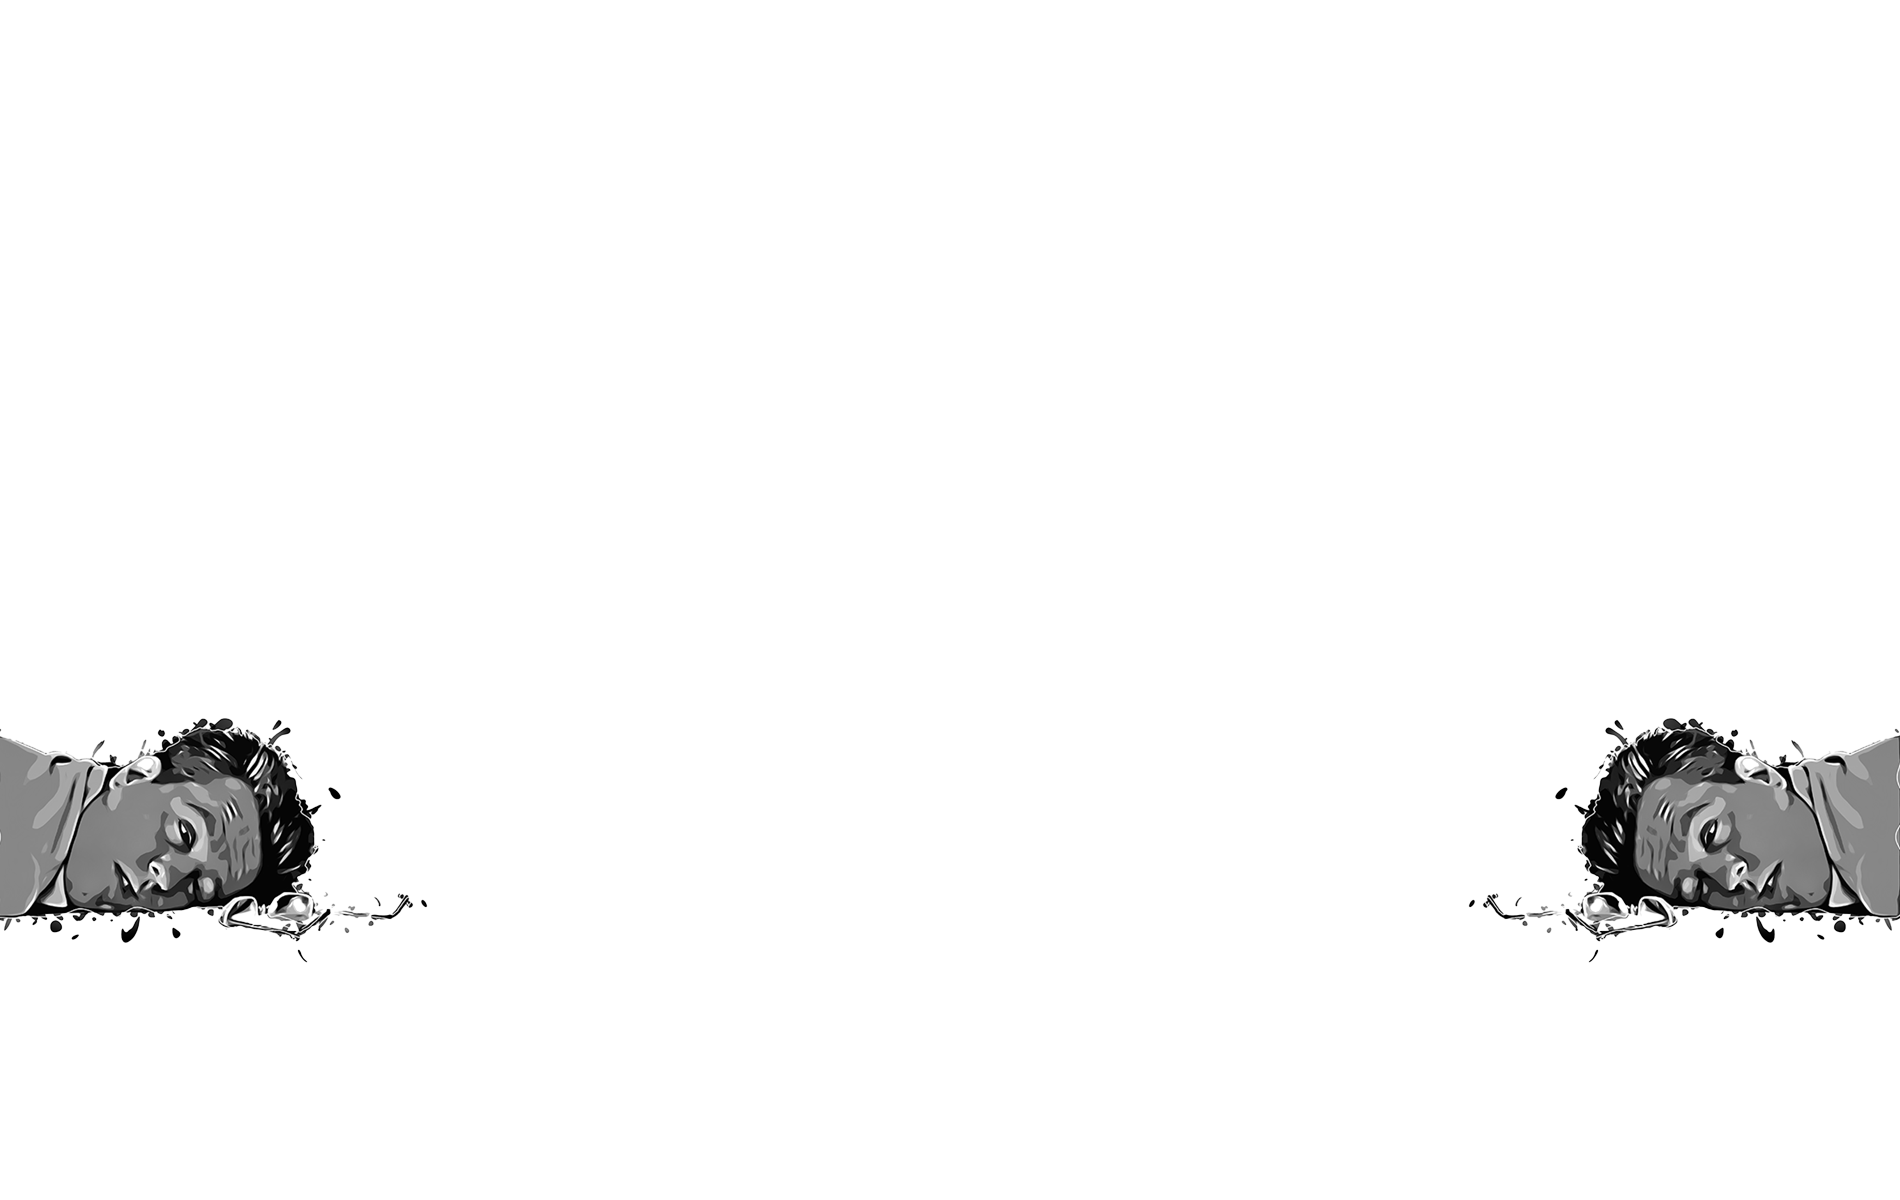
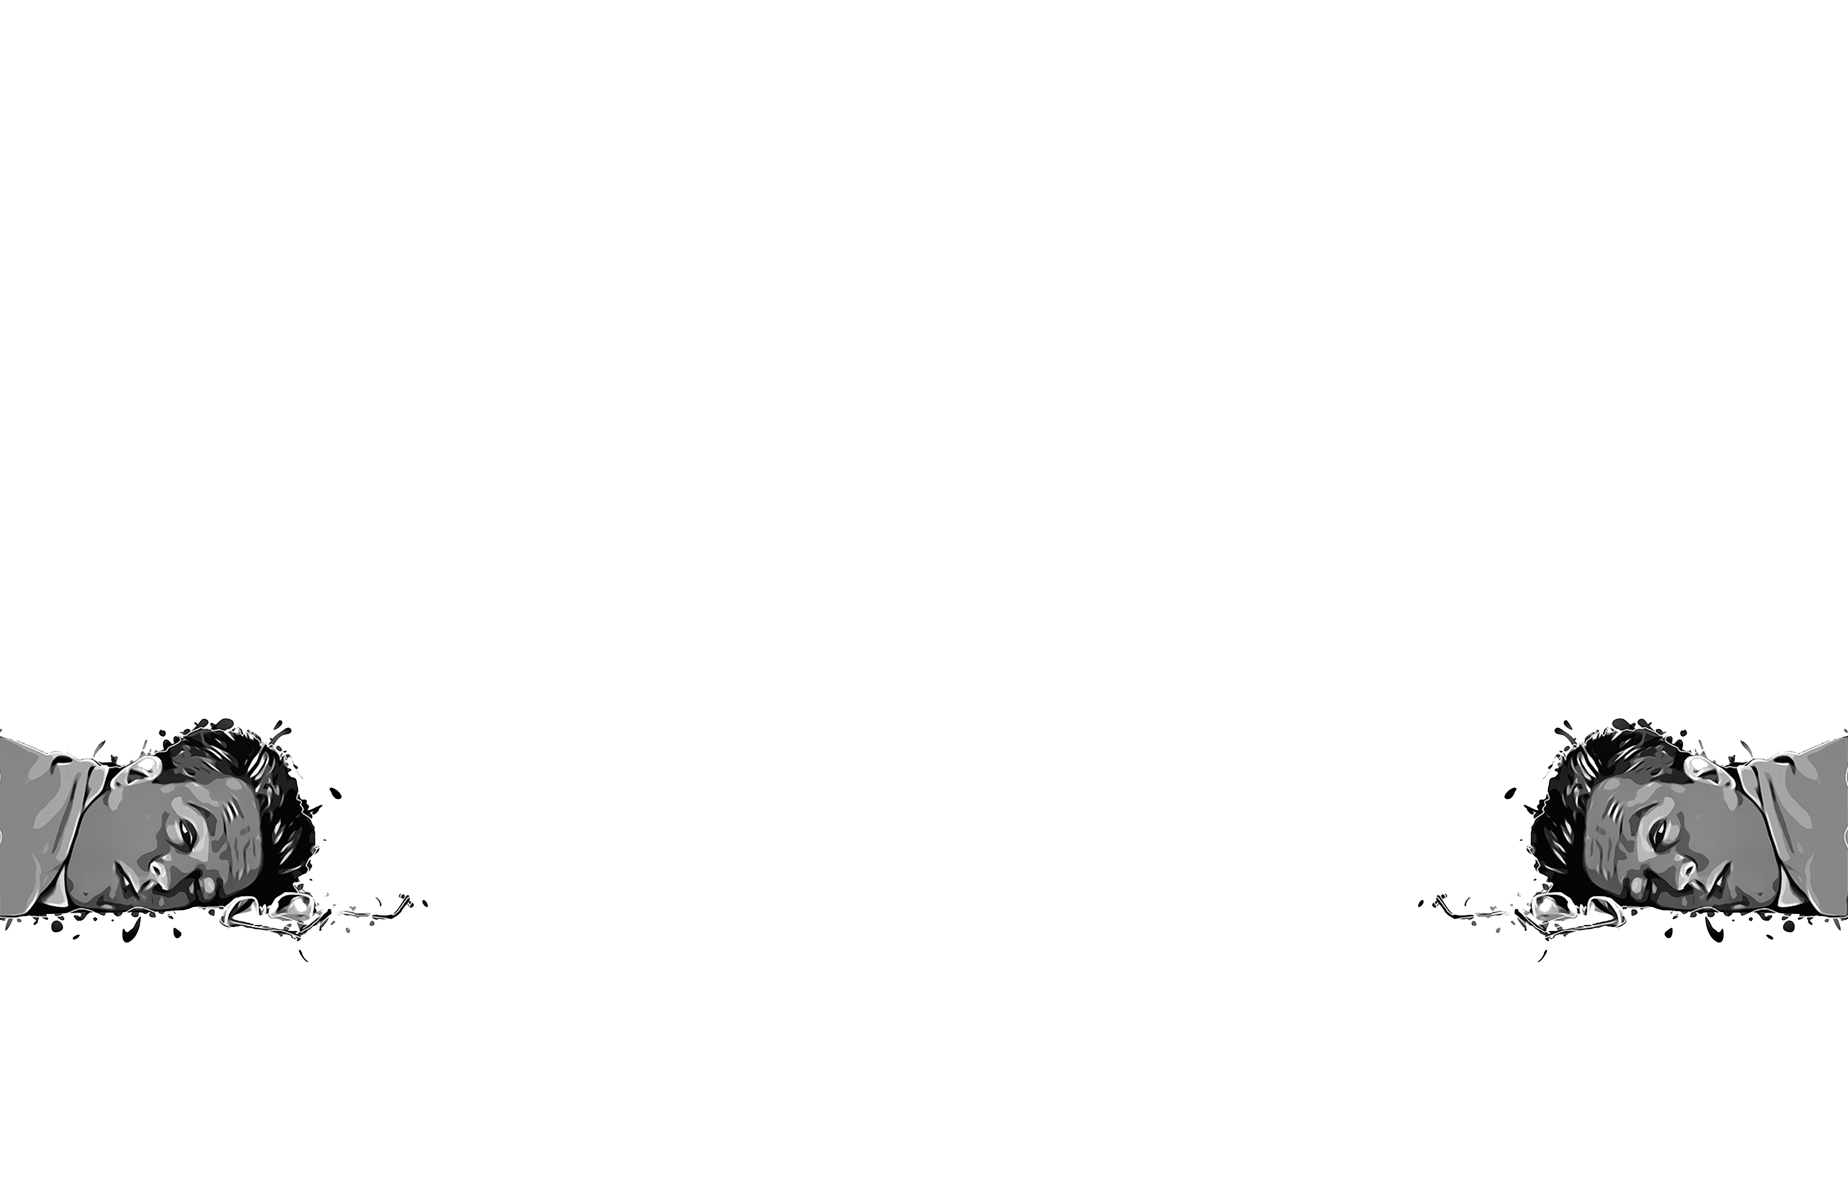
Update Hangover

Changed region(s): [[0.0, 0.5858, 0.2159, 0.8017], [0.7711, 0.5858, 0.987, 0.8017], [0.987, 0.74, 1.0, 0.7708]]

diff --git a/public/styles/light-new.css b/public/styles/light-new.css
@@ -931,7 +931,7 @@ body {
   color: var(--main, #080e25);
   text-rendering: optimizeLegibility;
   /*--body-bg: #f8f8f8 url("https://knuckleheads.netlify.app/images/backgrounds/Hangover.png"), url("https://knuckleheads.netlify.app/images/backgrounds/BG-FB-Field-Light.jpg");*/
-  background-image: url("https://knuckleheads.netlify.app/images/backgrounds/Side-Players-QB.png"), url("https://knuckleheads.netlify.app/images/backgrounds/BG-FB-Field-Light.jpg");
+  background-image: url("https://knuckleheads.netlify.app/images/backgrounds/Hangover.png"), url("https://knuckleheads.netlify.app/images/backgrounds/BG-FB-Field-Light.jpg");
   background-attachment: fixed;
   background-position: center top;
   background-repeat: no-repeat no-repeat;
